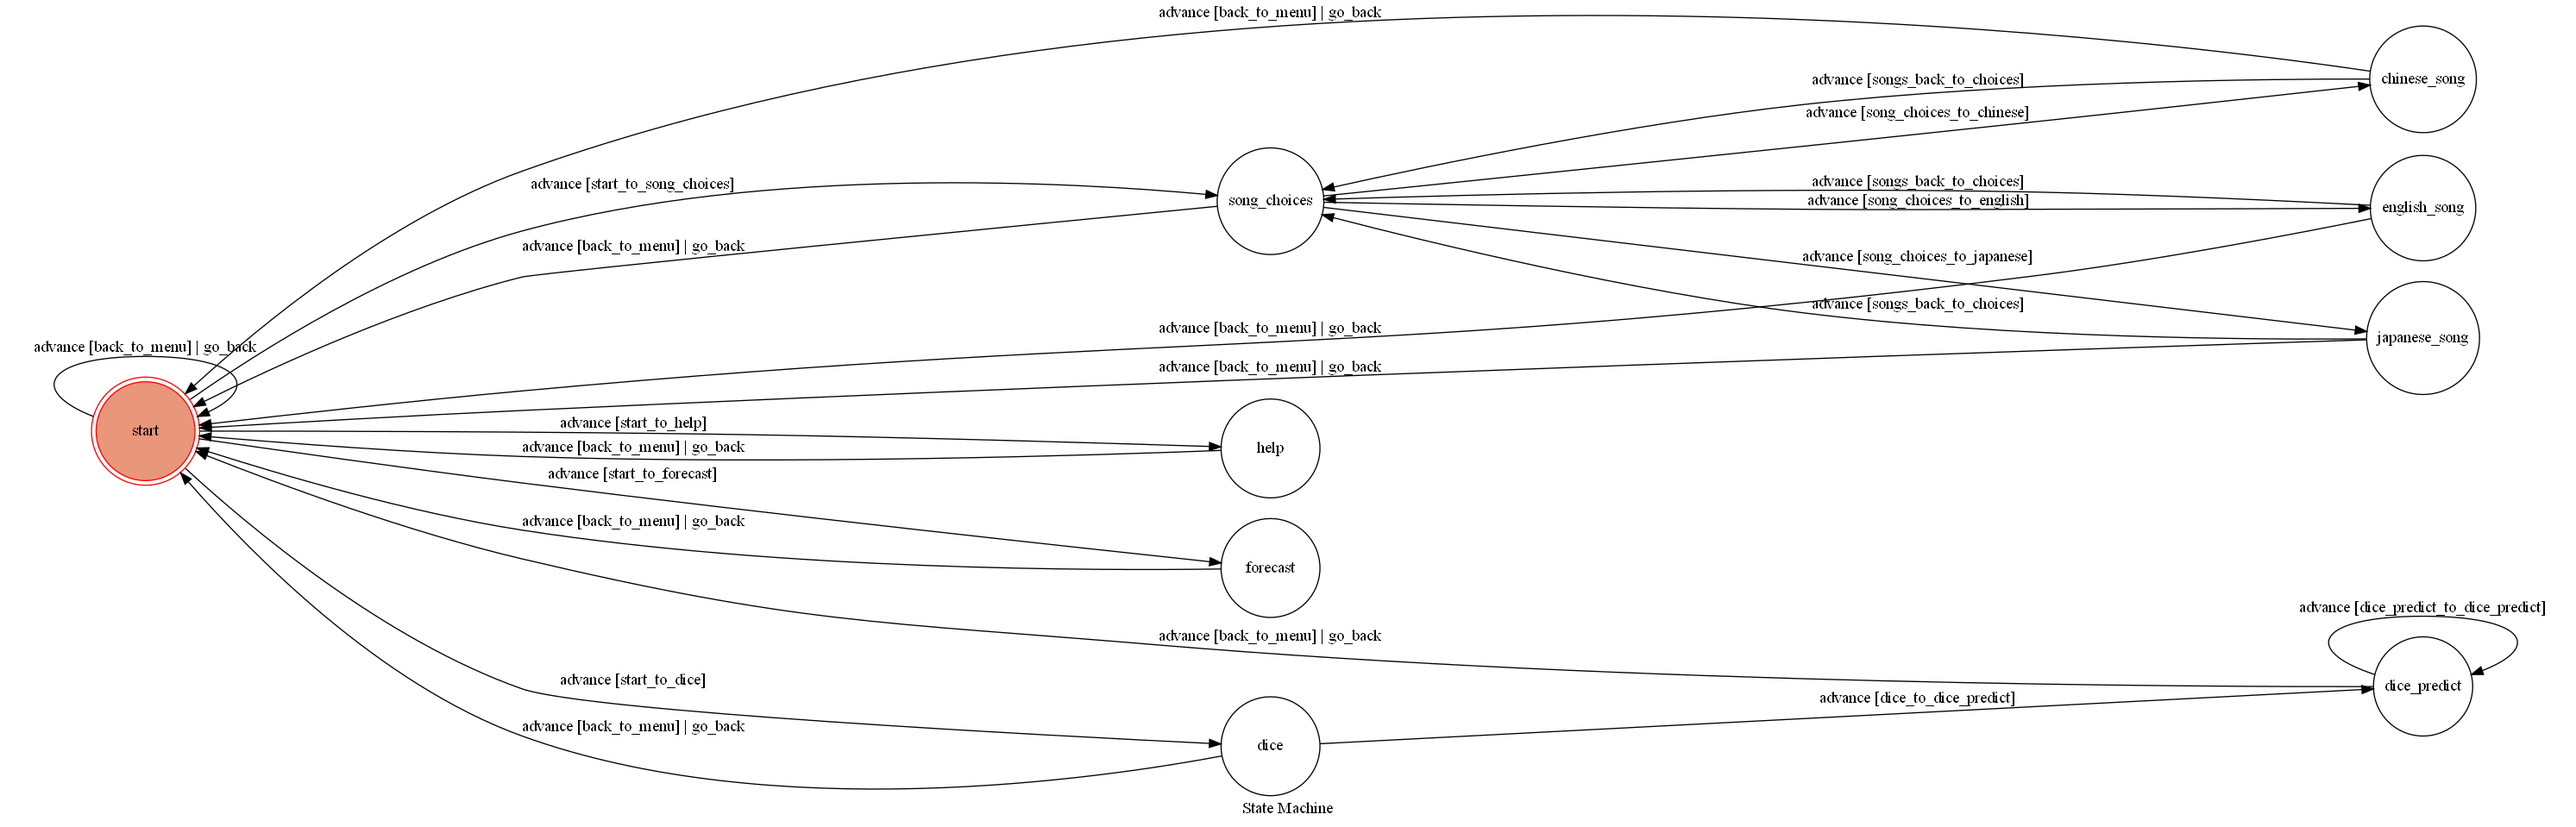
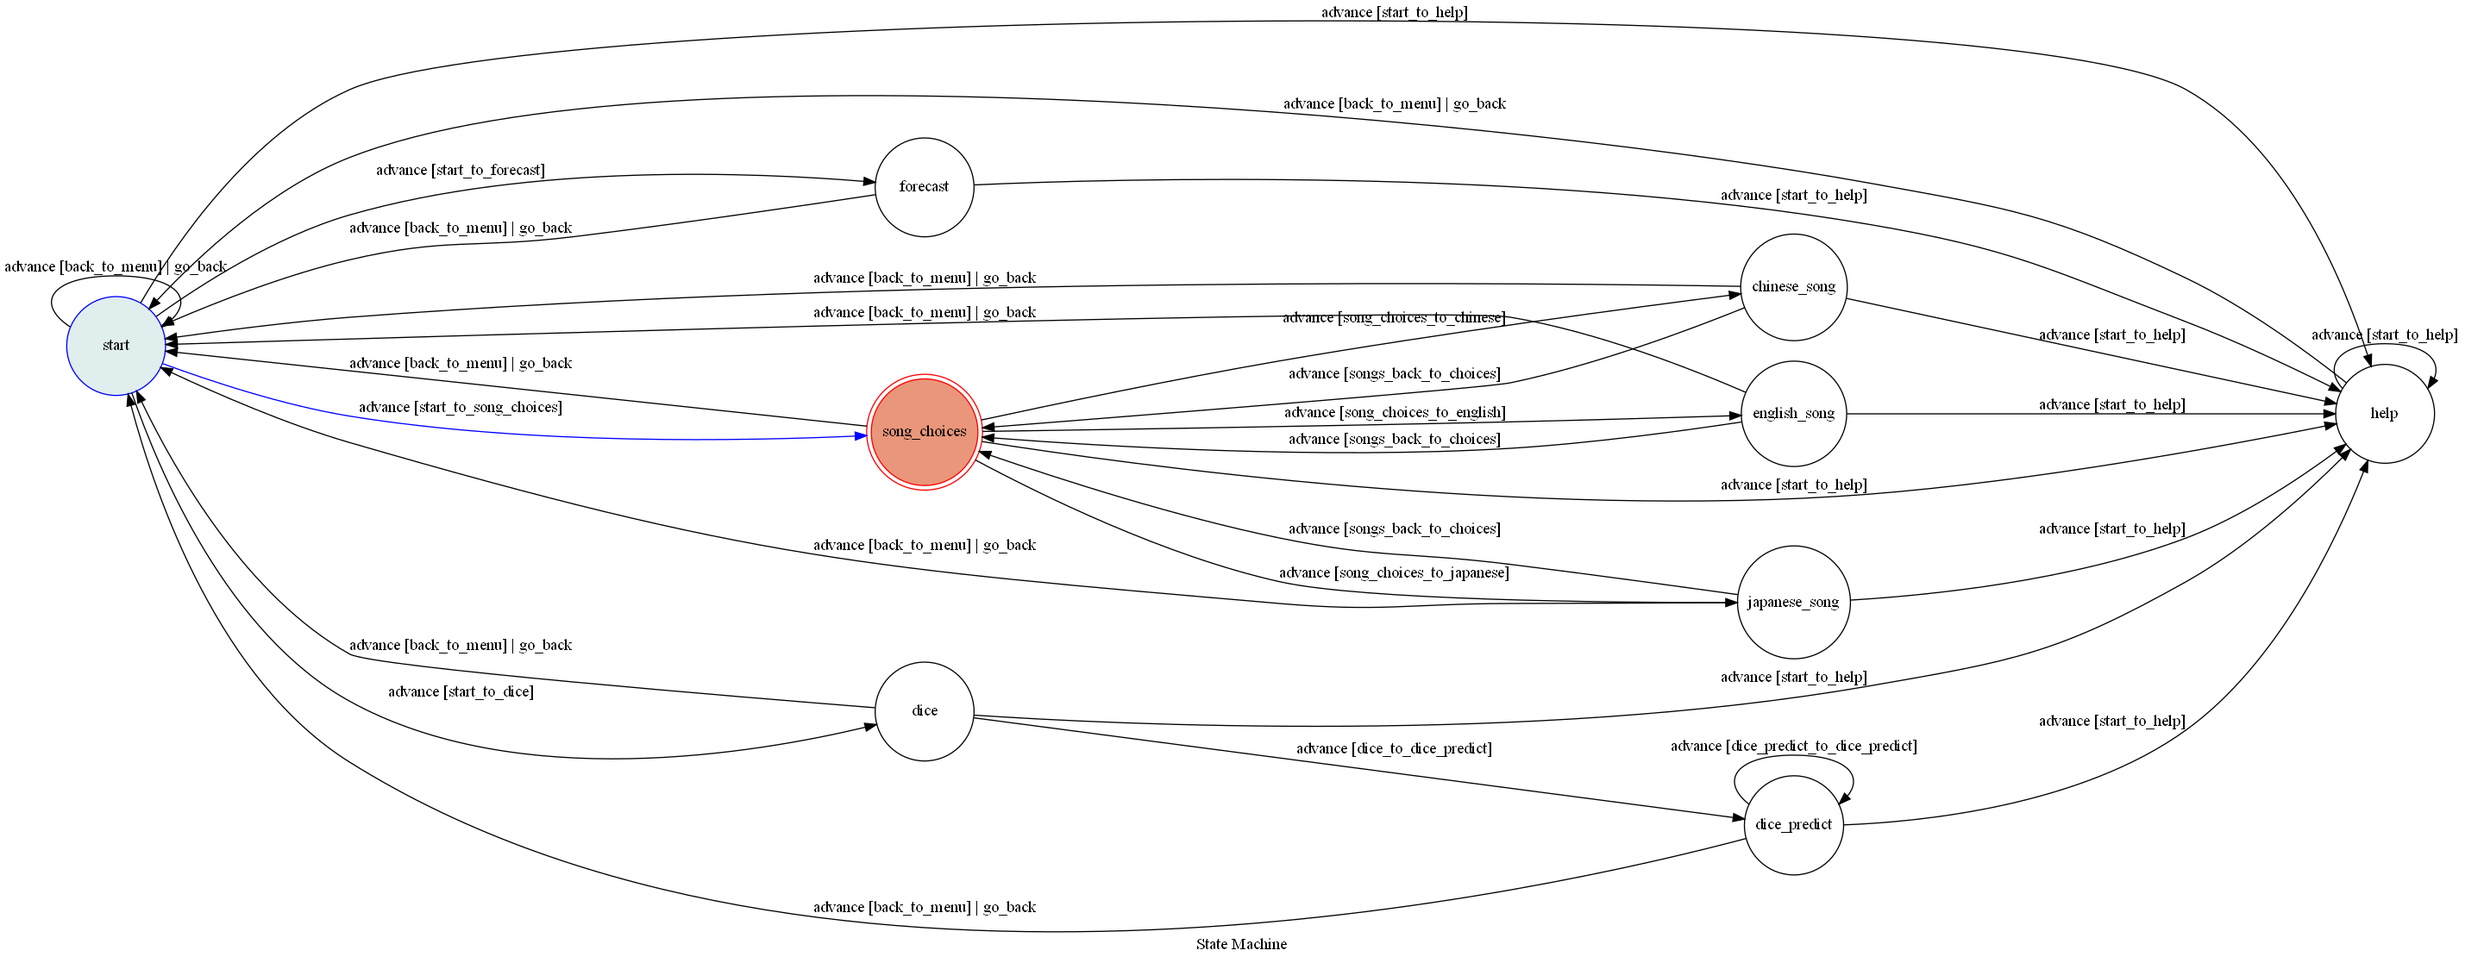
add transition to help

diff --git a/app.py b/app.py
@@ -24,7 +24,9 @@ machine = TocMachine(
         },
         {
             "trigger": "advance",
-            "source": "start",
+            "source": ["start", "song_choices", "help", "chinese_song", "english_song", "japanese_song", "forecast",
+                       "dice",
+                       "dice_predict"],
             "dest": "help",
             "conditions": "start_to_help",
         },
@@ -88,12 +90,13 @@ machine = TocMachine(
             "dest": "dice_predict",
             "conditions": "dice_predict_to_dice_predict",
         },
-         {
-              "trigger": "advance",
-             "source": ["start", "song_choices", "help", "chinese_song", "english_song", "japanese_song", "forecast", "dice", "dice_predict"],
-             "dest": "start",
+        {
+            "trigger": "advance",
+            "source": ["start", "song_choices", "help", "chinese_song", "english_song", "japanese_song", "forecast",
+                       "dice", "dice_predict"],
+            "dest": "start",
             "conditions": "back_to_menu",
-         },
+        },
         {"trigger": "go_back",
          "source": ["start", "song_choices", "help", "chinese_song", "english_song", "japanese_song", "forecast",
                     "dice", "dice_predict"],

diff --git a/README.md b/README.md
@@ -4,7 +4,7 @@
 這次的作業想說先做一點基本的東西，之後因為自己有選擇困難，所以給自己用的一個類似骰子的功能，讓自己有選擇困難的時候可以用XDD
 ## 功能
 ### 起始選單
-透過主畫面的選單可以使用三種功能 如圖所示 
+透過主畫面的選單可以使用三種功能 如圖所示 在任何一個狀態下輸入help 最終都會回到主選單
 
 ![messageImage_1672060749427.jpg](img%2FmessageImage_1672060749427.jpg)
 
@@ -13,19 +13,23 @@
 
 ![messageImage_1672060926281.jpg](img%2FmessageImage_1672060926281.jpg)
 
+
 如果選擇其中一種語言的歌曲 會出現下圖
 點選聽歌可以點開youtube連結 進到youtube推薦歌單
 
 ![messageImage_1672060963554.jpg](img%2FmessageImage_1672060963554.jpg)
+
 ### 氣象
 點選天氣狀況、地震網站 
 會前往天氣與最近地震的連結
 
 ![messageImage_1672061155243.jpg](img%2FmessageImage_1672061155243.jpg)
+
 ### 預言
 輸入任何字串都會回覆機率值 直到輸入回主選單
 
 ![messageImage_1672061195998.jpg](img%2FmessageImage_1672061195998.jpg)
-## fsm結構圖
-![fsm.png](fsm.png)
 
+## fsm結構圖
+
+![fsm.png](fsm.png)
